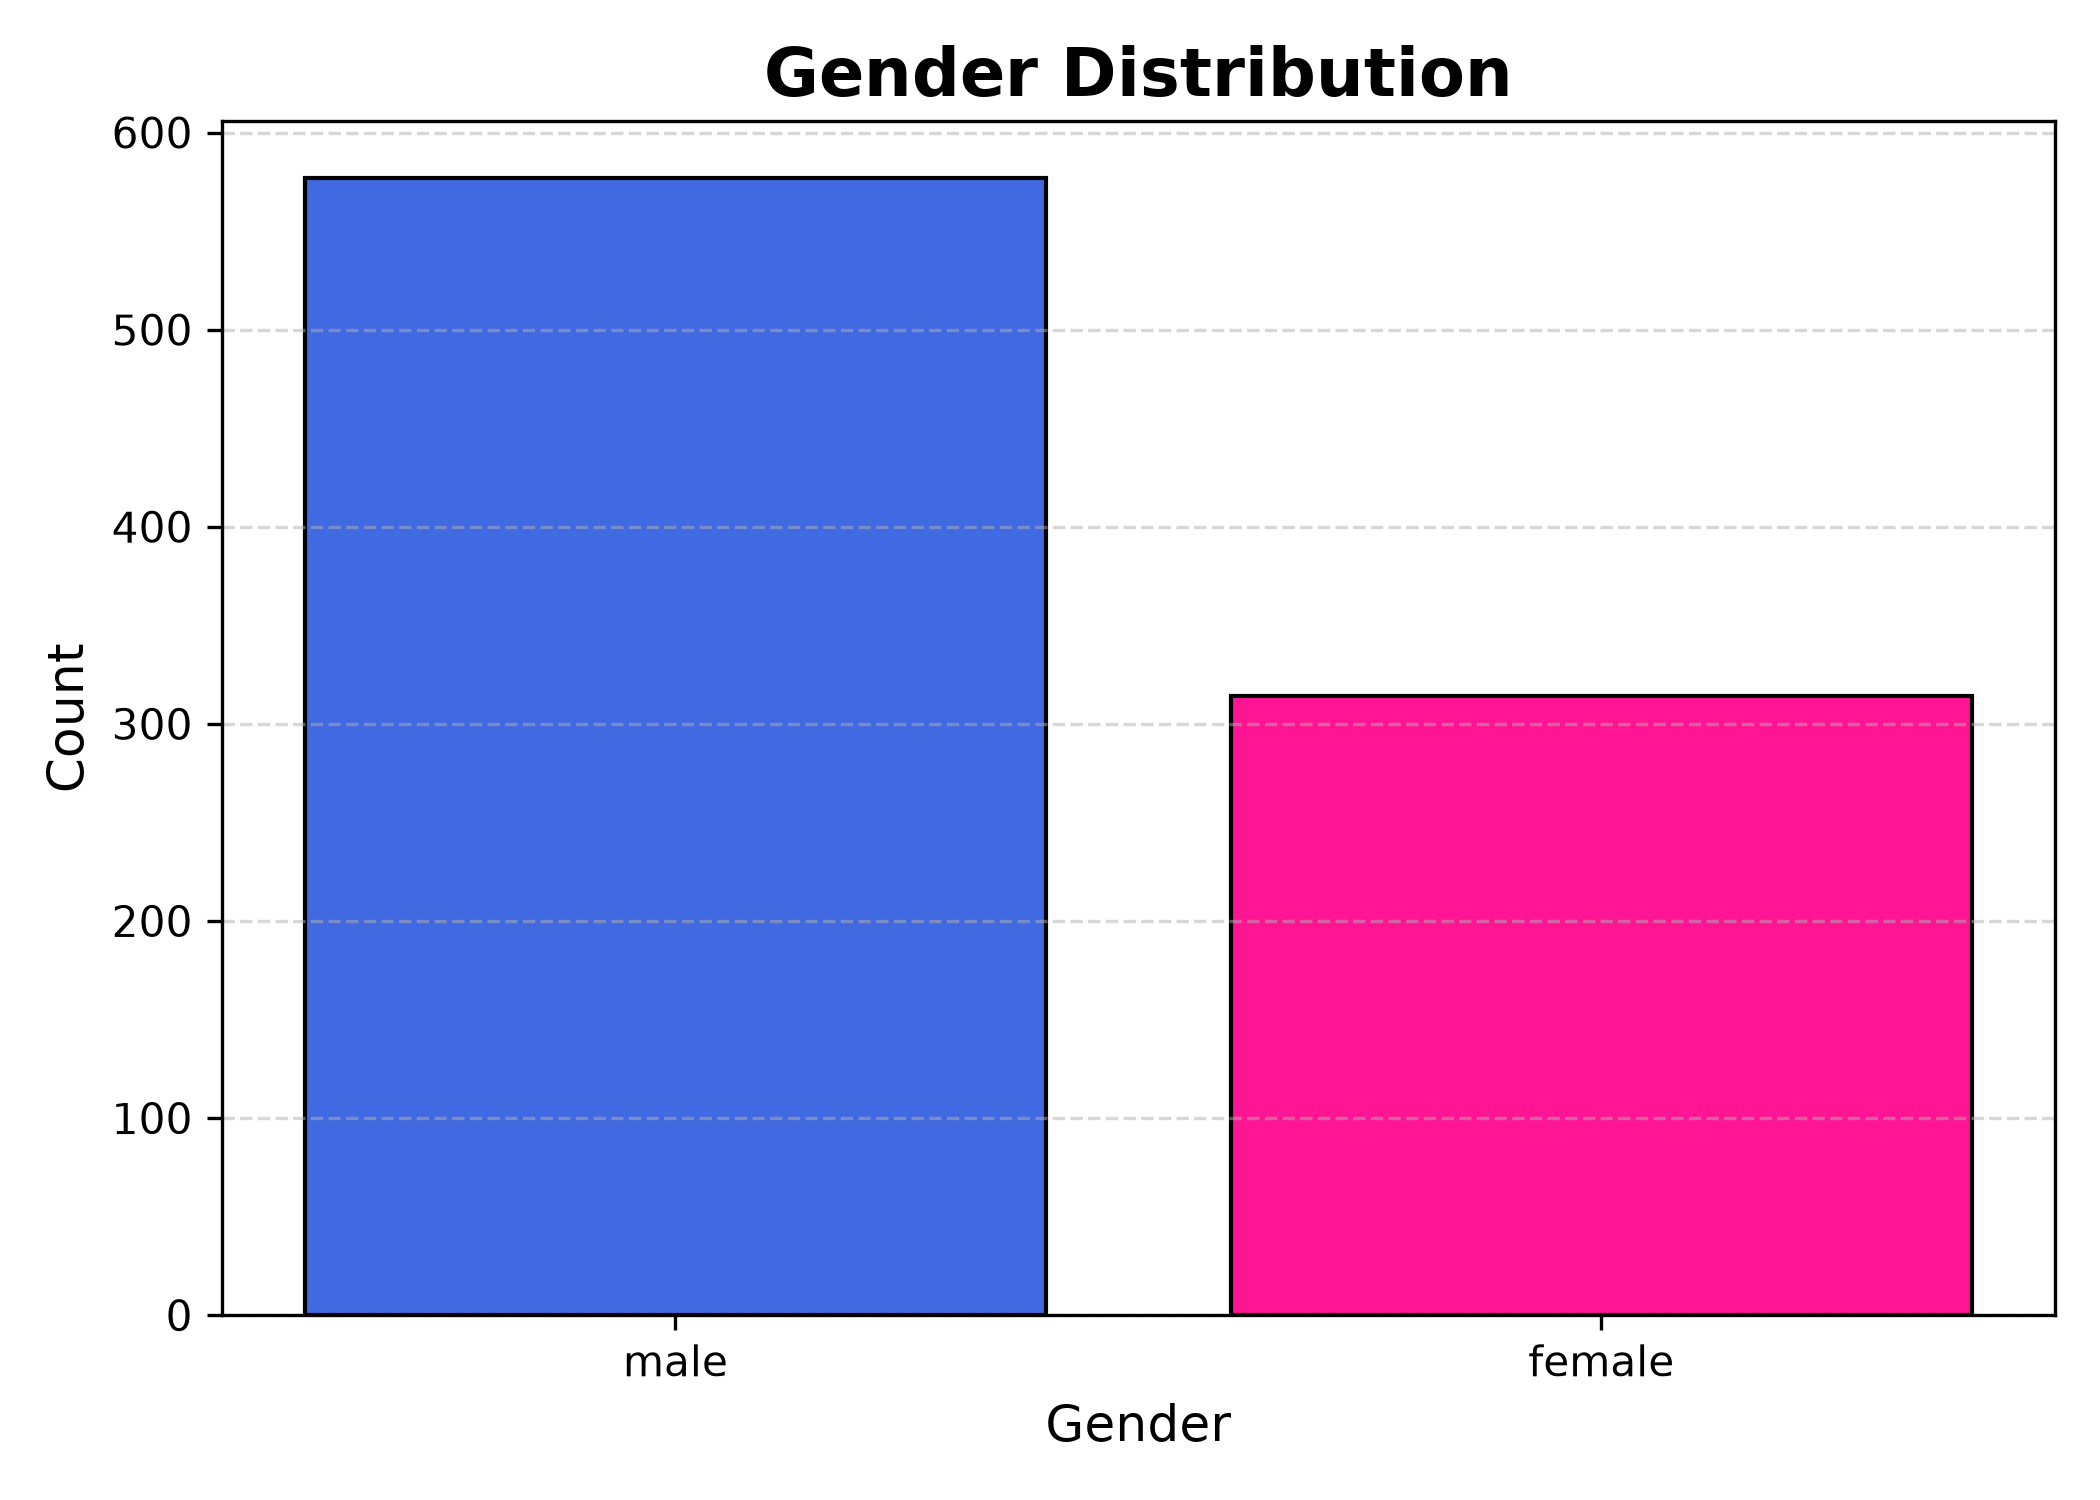
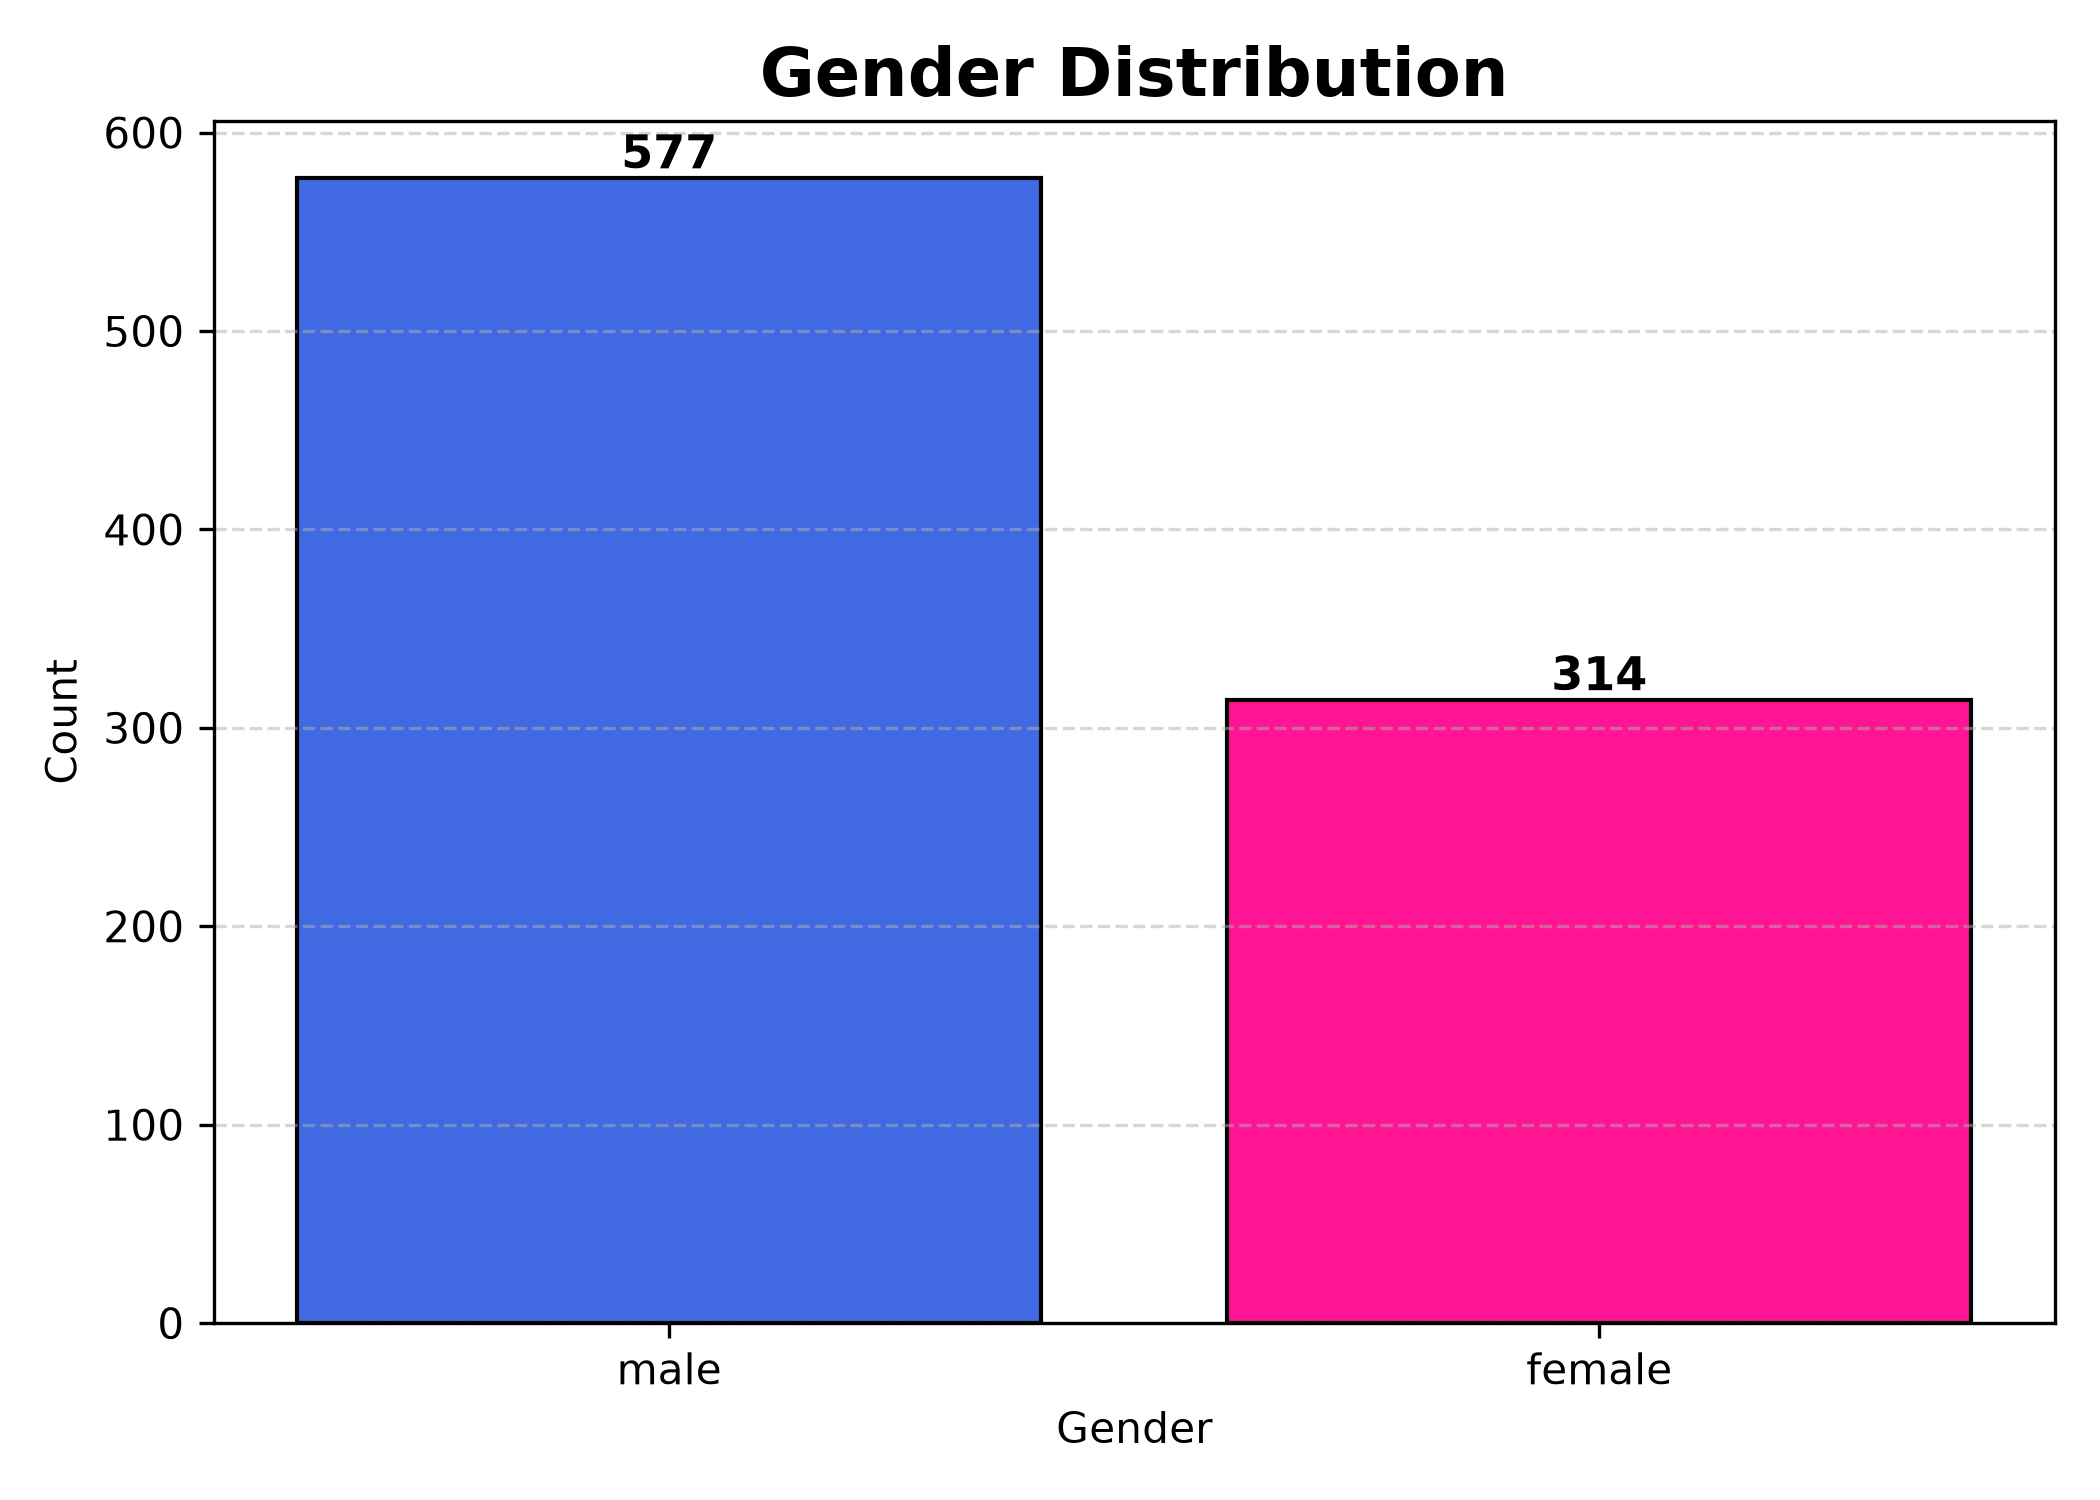
Added interactive menu and enhanced visualizations

diff --git a/task1.py b/task1.py
@@ -3,6 +3,23 @@ import matplotlib.pyplot as plt
 
 # Load dataset
 df = pd.read_csv("data/titanic.csv")
+print("=" * 40)
+print("      TITANIC DATASET SUMMARY")
+print("=" * 40)
+
+print(f"Total Records : {len(df)}")
+print(f"Male          : {(df['Sex'] == 'male').sum()}")
+print(f"Female        : {(df['Sex'] == 'female').sum()}")
+
+print(f"Average Age   : {df['Age'].mean():.2f}")
+print(f"Minimum Age   : {df['Age'].min()}")
+print(f"Maximum Age   : {df['Age'].max()}")
+
+print("=" * 40)
+
+# ----------------------------
+# Gender Distribution
+# ----------------------------
 
 # ----------------------------
 # Gender Distribution
@@ -12,16 +29,28 @@ gender_counts = df["Sex"].value_counts()
 
 plt.figure(figsize=(7,5))
 
-plt.bar(
+bars = plt.bar(
     gender_counts.index,
     gender_counts.values,
     color=["royalblue", "deeppink"],
     edgecolor="black"
 )
 
+# Display count above each bar
+for bar in bars:
+    height = bar.get_height()
+    plt.text(
+        bar.get_x() + bar.get_width()/2,
+        height + 5,
+        f"{int(height)}",
+        ha="center",
+        fontsize=11,
+        fontweight="bold"
+    )
+
 plt.title("Gender Distribution", fontsize=16, fontweight="bold")
-plt.xlabel("Gender", fontsize=12)
-plt.ylabel("Count", fontsize=12)
+plt.xlabel("Gender")
+plt.ylabel("Count")
 plt.grid(axis="y", linestyle="--", alpha=0.5)
 
 plt.tight_layout()